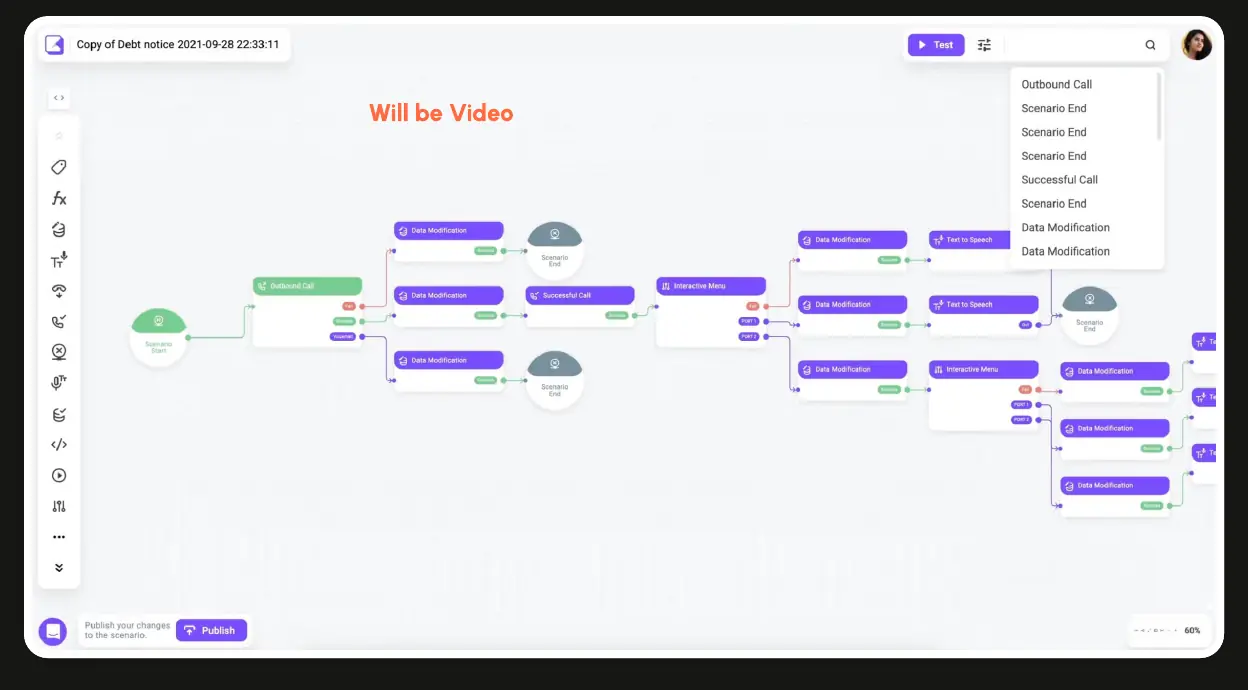
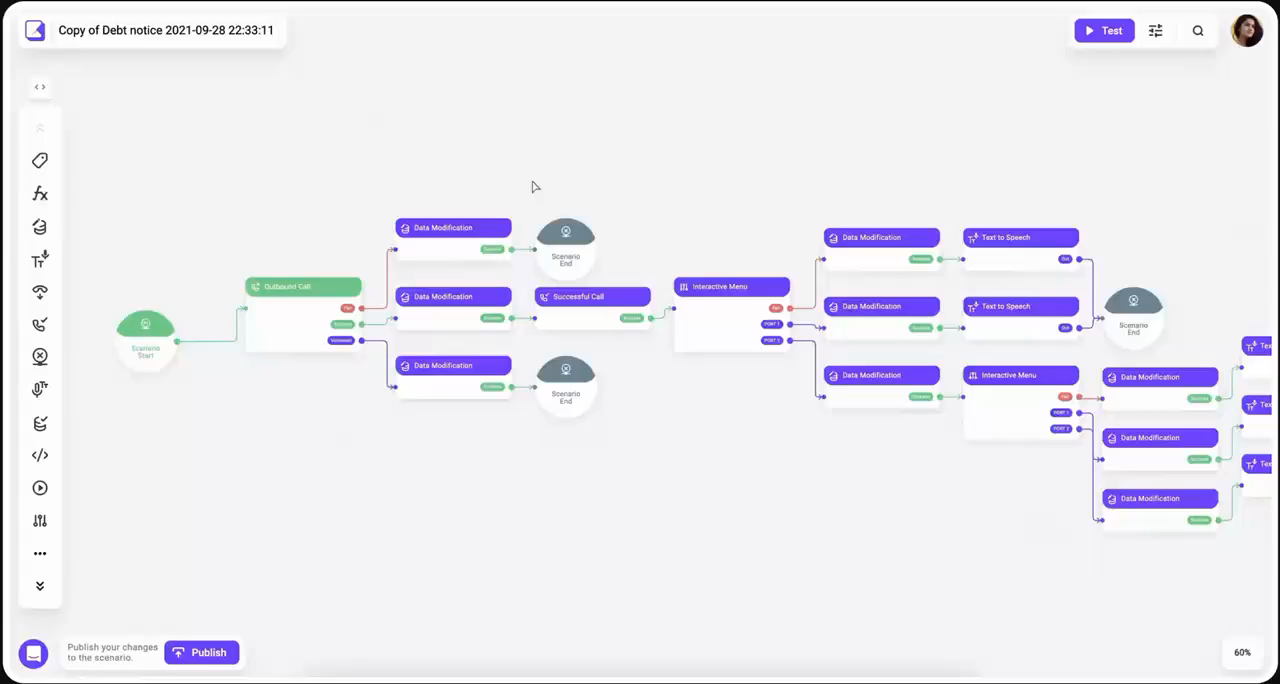
Refine Voximplant walkthrough and preserve higher focus layers

Changed region(s): [[0.0, 0.0, 1.0, 1.0], [0.0938, 0.4298, 0.1875, 0.5219], [0.2812, 0.1535, 0.4062, 0.1842]]

diff --git a/src/data/walkthroughs.ts b/src/data/walkthroughs.ts
@@ -37,7 +37,7 @@ export const walkthroughs: Record<string, WalkthroughData> = {
     lengthSeconds: 534.207,
     chapterTitles: 'names',
     cues: [
-      {name:'Overview',anchor:'top',start:0,stops:[{anchor:'#vox-overview',start:8.7}]},
+      {name:'Overview',anchor:'top',start:0,stops:[{anchor:'#vox-overview',start:22.0}]},
       {name:'Problem',anchor:'#vox-problem-title',start:26.6},
       {name:'Discovery',anchor:'#vox-discovery-title',start:55.4,stops:[{anchor:'#vox-audience-title',start:59.9,glide:true}]},
       {name:'Competitors',anchor:'#vox-competitive-title',start:80.8,stops:[
@@ -52,12 +52,12 @@ export const walkthroughs: Record<string, WalkthroughData> = {
         {anchor:'#vox-decisions',start:217.6},
       ]},
       {name:'Solution',anchor:'#vox-onboarding',start:236.2,stops:[
-        {anchor:'#vox-editor',start:246.0},
+        {anchor:'#vox-editor',start:244.0},
         {anchor:'#vox-scenarios',start:310.9},
         {anchor:'#vox-campaigns',start:318.1},
         {anchor:'#vox-numbers',start:336.0},
       ]},
-      {name:'Contact center',anchor:'#vox-contact-title',start:344.8,stops:[
+      {name:'Contact center',anchor:'#vox-contact-title',start:344.8,glide:'next',stops:[
         {anchor:'#vox-live-dashboard',start:364.9,glide:true},
         {anchor:'#vox-live-conversations',start:385.1},
         {anchor:'#vox-workspace',start:404.1,glide:'next'},
@@ -67,7 +67,7 @@ export const walkthroughs: Record<string, WalkthroughData> = {
         {anchor:'#vox-reports',start:465.2,glide:true},
         {anchor:'#vox-design-system',start:486.6},
       ]},
-      {name:'Impact',anchor:'#vox-impact-title',start:498.3},
+      {name:'Impact',anchor:'#vox-impact-title',start:498.3,stops:[{anchor:'#vox-end',start:527.1}]},
     ],
   },
 };

diff --git a/src/styles/global.css b/src/styles/global.css
@@ -23,8 +23,8 @@ a[href] { cursor: pointer; }
    unshaped controls still receive a rounded keyboard-focus outline. */
 :where(button, a, summary, input, select, textarea, [tabindex]:not([tabindex='-1'])) { border-radius: var(--radius-small); }
 :where(button, a, summary, input, select, textarea, [tabindex]):focus-visible { outline: 2px solid var(--color-focus-ring); outline-offset: 4px; }
-/* Raise keyboard focus without changing positioning or outline precedence. */
-:is(button, a, summary, input, select, textarea, [tabindex]):focus-visible { z-index: var(--layer-raised); }
+/* Raise keyboard focus while preserving controls already on a higher layer. */
+:is(button, a, summary, input, select, textarea, [tabindex]):focus-visible:not(.video-saver-control, .ds-motion-replay) { z-index: var(--layer-raised); }
 /* Canvas separation keeps card focus visible over either Work background. */
 .project-surface:focus-visible { box-shadow: 0 0 0 calc(var(--space-1) + 2px) var(--color-bg-canvas); }
 /* Safari treats dialog autofocus/return as focus-visible even after a tap.
